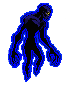
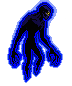
ch

diff --git a/app.js b/app.js
@@ -13,7 +13,7 @@
     'alligator-snapping-turtle': { name: 'Грифовая черепаха', team: 'enemy', src: 'assets/mobs/alligator-snapping-turtle.png', displaySize: { width: 90, height: 108 }, padding: { top: 37, right: 2, bottom: 4, left: 2 } },
     'hill-giant': { name: 'Холмовой великан', team: 'enemy', src: 'assets/mobs/hill-giant.png', displaySize: { width: 90, height: 108 }, padding: { top: 4, right: 9, bottom: 4, left: 8 } },
     'giant-toad': { name: 'Гигантская жаба', team: 'enemy', src: 'assets/mobs/giant-toad.png', displaySize: { width: 90, height: 108 }, padding: { top: 37, right: 2, bottom: 4, left: 2 } },
-    specter: { name: 'Спектр', team: 'enemy', src: 'assets/mobs/specter.png', displaySize: { width: 72, height: 86 }, padding: { top: 4, right: 9, bottom: 4, left: 9 } },
+    specter: { name: 'Спектр', team: 'enemy', src: 'assets/mobs/specter.png', displaySize: { width: 72, height: 86 }, padding: { top: 0, right: 8, bottom: 3, left: 7 } },
     'lake-spirit': { name: 'Дух озера', team: 'enemy', src: 'assets/mobs/lake-spirit.png', displaySize: { width: 60, height: 72 }, padding: { top: 4, right: 3, bottom: 4, left: 2 } },
     nymph: { name: 'Нимфа', team: 'enemy', src: 'assets/mobs/nymph.png', displaySize: { width: 72, height: 86 }, padding: { top: 4, right: 3, bottom: 4, left: 2 } },
     wizard: { name: 'Маг', team: 'ally', src: 'assets/mobs/wizard.png', displaySize: { width: 72, height: 86 }, padding: { top: 4, right: 7, bottom: 4, left: 7 } },
